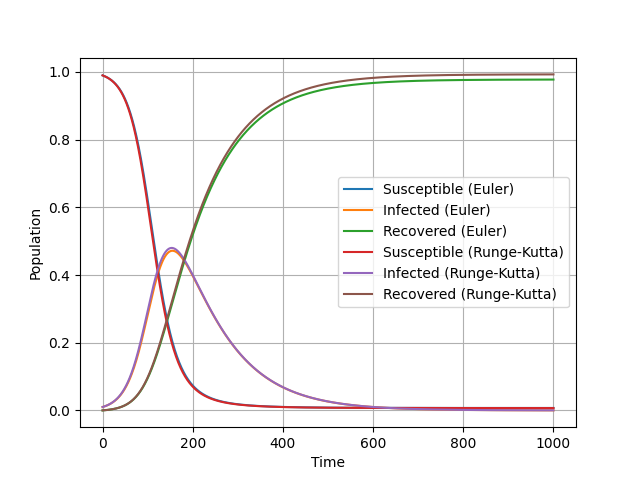
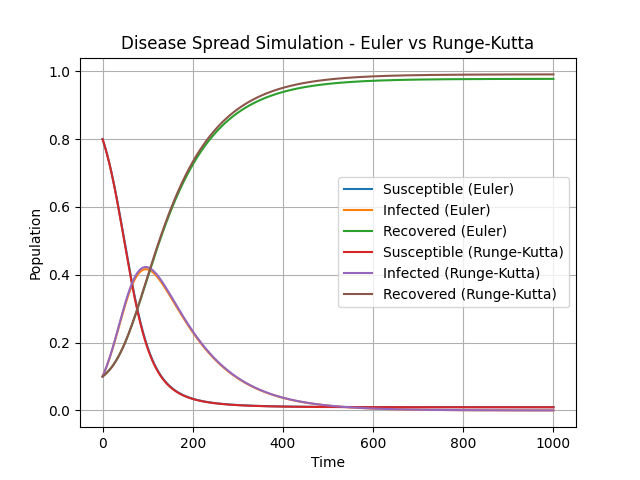
calculation of the error of the Euler method

diff --git a/ex2/main.py b/ex2/main.py
@@ -1,6 +1,6 @@
 import argparse
 import matplotlib.pyplot as plt
-
+import numpy as np
 
 def initialize(s0, i0, r0):
     global s, i, r, s_result, i_result, r_result
@@ -56,6 +56,11 @@ def run_simulation(method, dt, beta, k, tfinal, s0, i0, r0):
             update_runge_kutta(dt, beta, k)
         observe()
 
+def calculate_error(euler_s, euler_i, euler_r, runge_s, runge_i, runge_r):
+    error_s = np.abs(np.array(euler_s) - np.array(runge_s))
+    error_i = np.abs(np.array(euler_i) - np.array(runge_i))
+    error_r = np.abs(np.array(euler_r) - np.array(runge_r))
+    return error_s, error_i, error_r
 
 def main():
     parser = argparse.ArgumentParser(
@@ -101,11 +106,20 @@ def main():
         plt.plot(s_result, label=f'Susceptible ({args.method})')
         plt.plot(i_result, label=f'Infected ({args.method})')
         plt.plot(r_result, label=f'Recovered ({args.method})')
+
+        plt.xlabel('Time')
+        plt.ylabel('Population')
+        plt.title(f'Disease Spread Simulation - {args.method}')
+        plt.legend()
+        plt.grid()
+        plt.savefig(f'results/disease_population_{args.method}.png')
+        plt.show()
     else:
         run_simulation('euler', dt, beta, k, tfinal, s0, i0, r0)
         plt.plot(s_result, label='Susceptible (Euler)')
         plt.plot(i_result, label='Infected (Euler)')
         plt.plot(r_result, label='Recovered (Euler)')
+        euler_s, euler_i, euler_r = s_result.copy(), i_result.copy(), r_result.copy()
         s_result.clear()
         i_result.clear()
         r_result.clear()
@@ -114,12 +128,27 @@ def main():
         plt.plot(i_result, label='Infected (Runge-Kutta)')
         plt.plot(r_result, label='Recovered (Runge-Kutta)')
 
-    plt.xlabel('Time')
-    plt.ylabel('Population')
-    plt.legend()
-    plt.grid()
-    plt.savefig('results/disease_population_comparison.png')
-    plt.show()
+        plt.xlabel('Time')
+        plt.ylabel('Population')
+        plt.title('Disease Spread Simulation - Euler vs Runge-Kutta')
+        plt.legend()
+        plt.grid()
+        plt.savefig('results/disease_population_comparison.png')
+        plt.show()
+
+        error_s, error_i, error_r = calculate_error(euler_s, euler_i, euler_r, s_result, i_result, r_result)
+        plt.figure()
+        plt.plot(error_s, label='Error in Susceptible')
+        plt.plot(error_i, label='Error in Infected')
+        plt.plot(error_r, label='Error in Recovered')
+        plt.xlabel('Time')
+        plt.ylabel('Error')
+        plt.title('Error of Euler')
+        plt.legend()
+        plt.grid()
+        plt.savefig('results/error_euler.png')
+        plt.show()
+
 
 
 if __name__ == '__main__':
